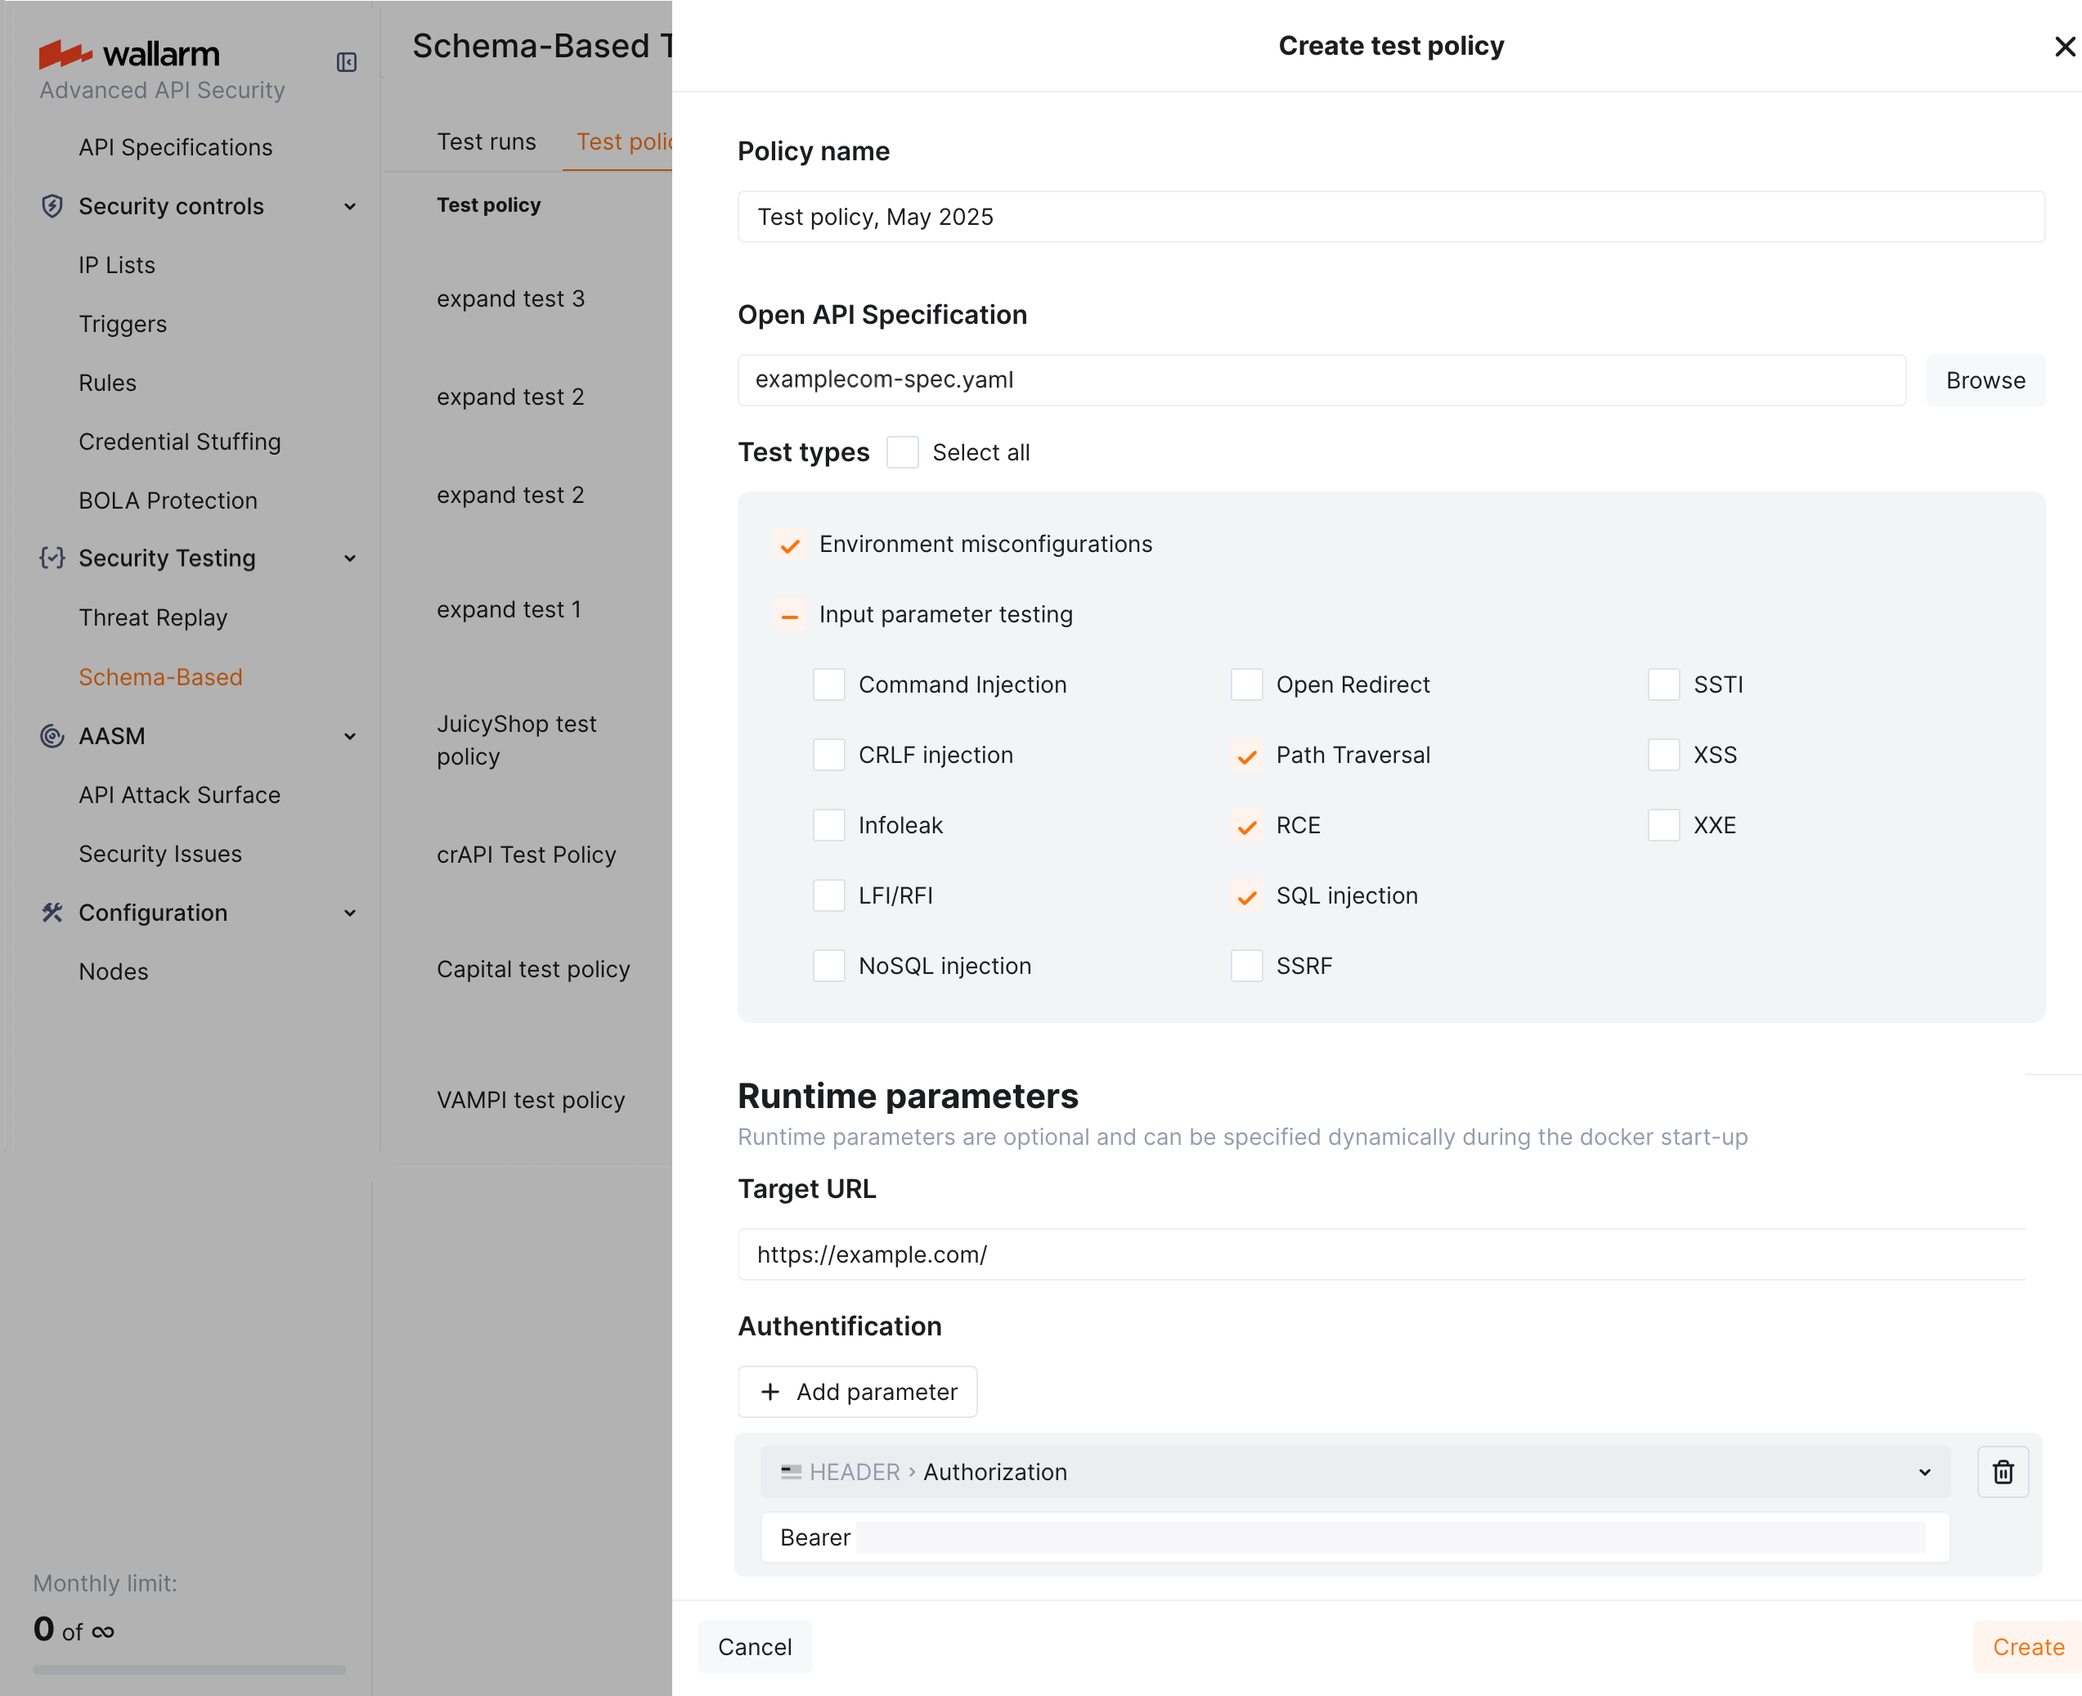
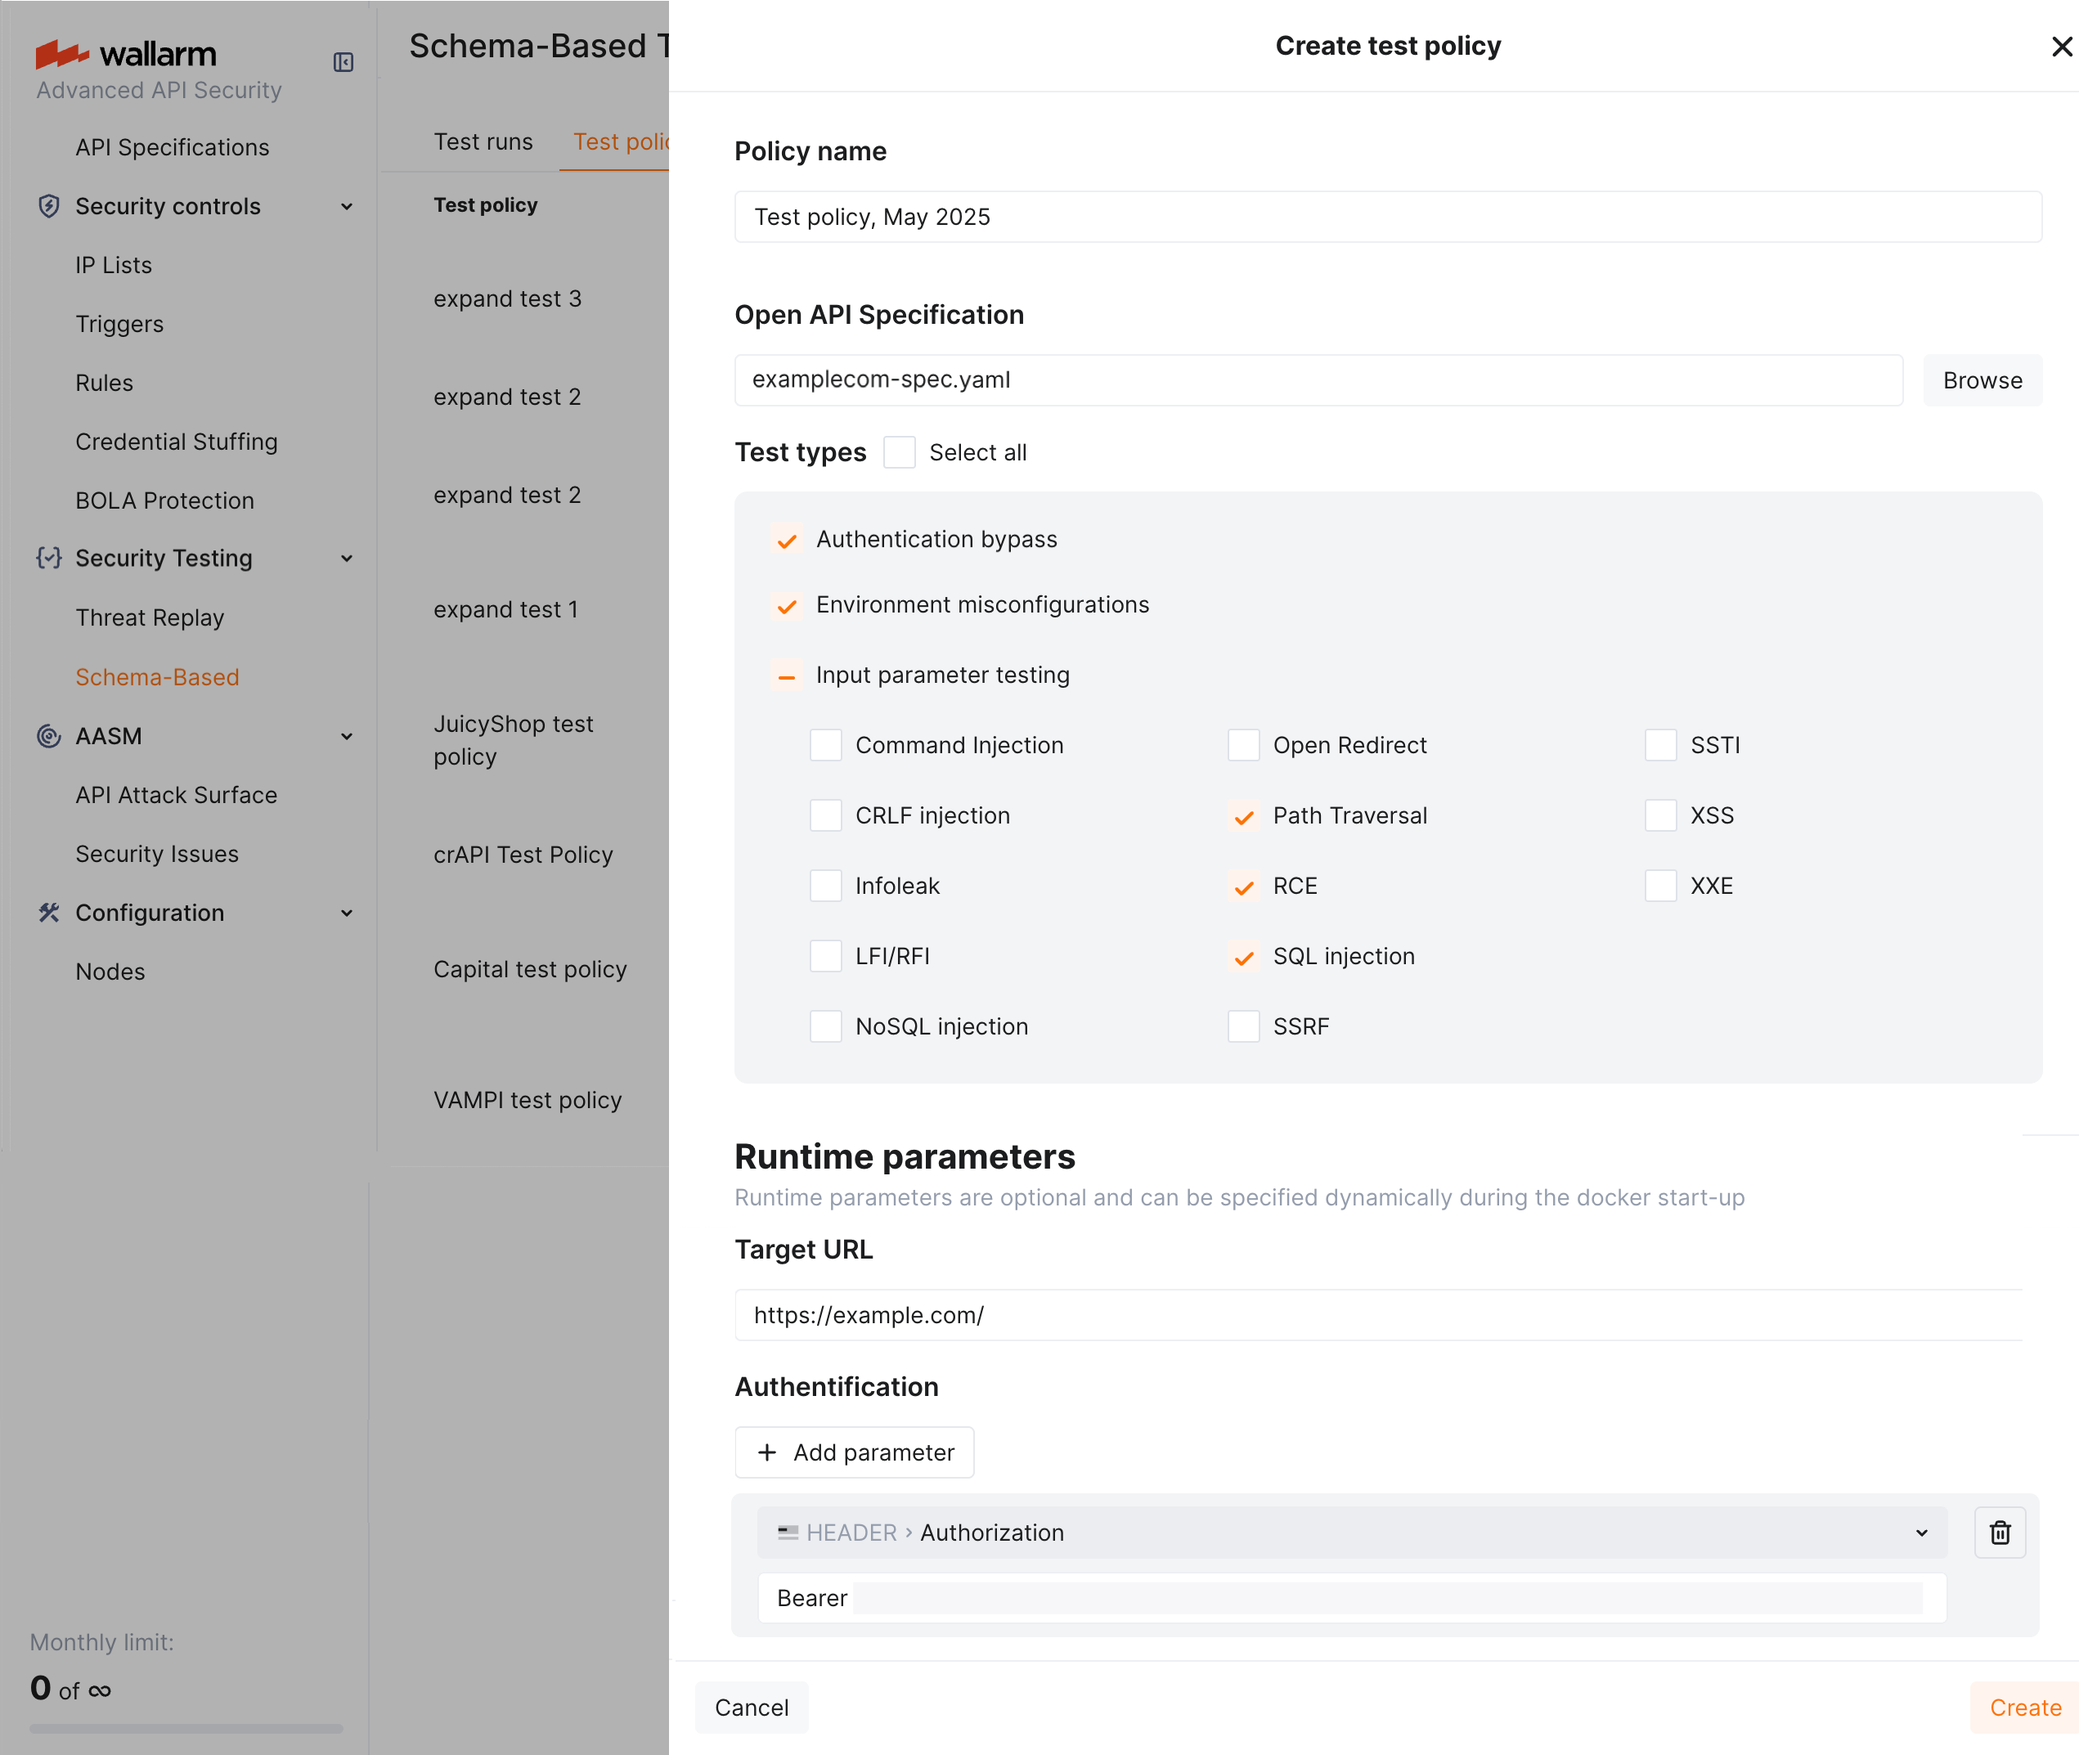
DOCS-3508 Authentication bypass in SBT

diff --git a/docs/latest/vulnerability-detection/schema-based-testing/overview.md b/docs/latest/vulnerability-detection/schema-based-testing/overview.md
@@ -30,8 +30,9 @@ Schema-Based Testing can base its tests on:
 
 ## Test types
 
-For OpenAPI specification-based tests, Schema-Based Testing uses three types of tests to detect security issues:
+For OpenAPI specification-based tests, Schema-Based Testing uses several types of tests to detect security issues:
 
+* **Authentication bypass** checks for risks of [bypassing](../../attacks-vulns-list.md#authentication-bypass) the authentication mechanisms or exploiting their weaknesses.
 * **Environment misconfiguration tests** check for vulnerabilities and misconfigurations in the environment or infrastructure the application and APIs run on (not the API logic). Examples:
 
     * Exposed source code, backups, configuration files.

diff --git a/docs/latest/attacks-vulns-list.md b/docs/latest/attacks-vulns-list.md
@@ -990,7 +990,7 @@ Wallarm detects the complex business logic and access control vulnerabilities on
 
 ### Authentication bypass
 
-**Vulnerability** [by](#vulnerability-types) passive, AASM.
+**Vulnerability** [by](#vulnerability-types) passive, AASM, SBT.
 
 **CWE code:** [CWE-288][cwe-288]
 
